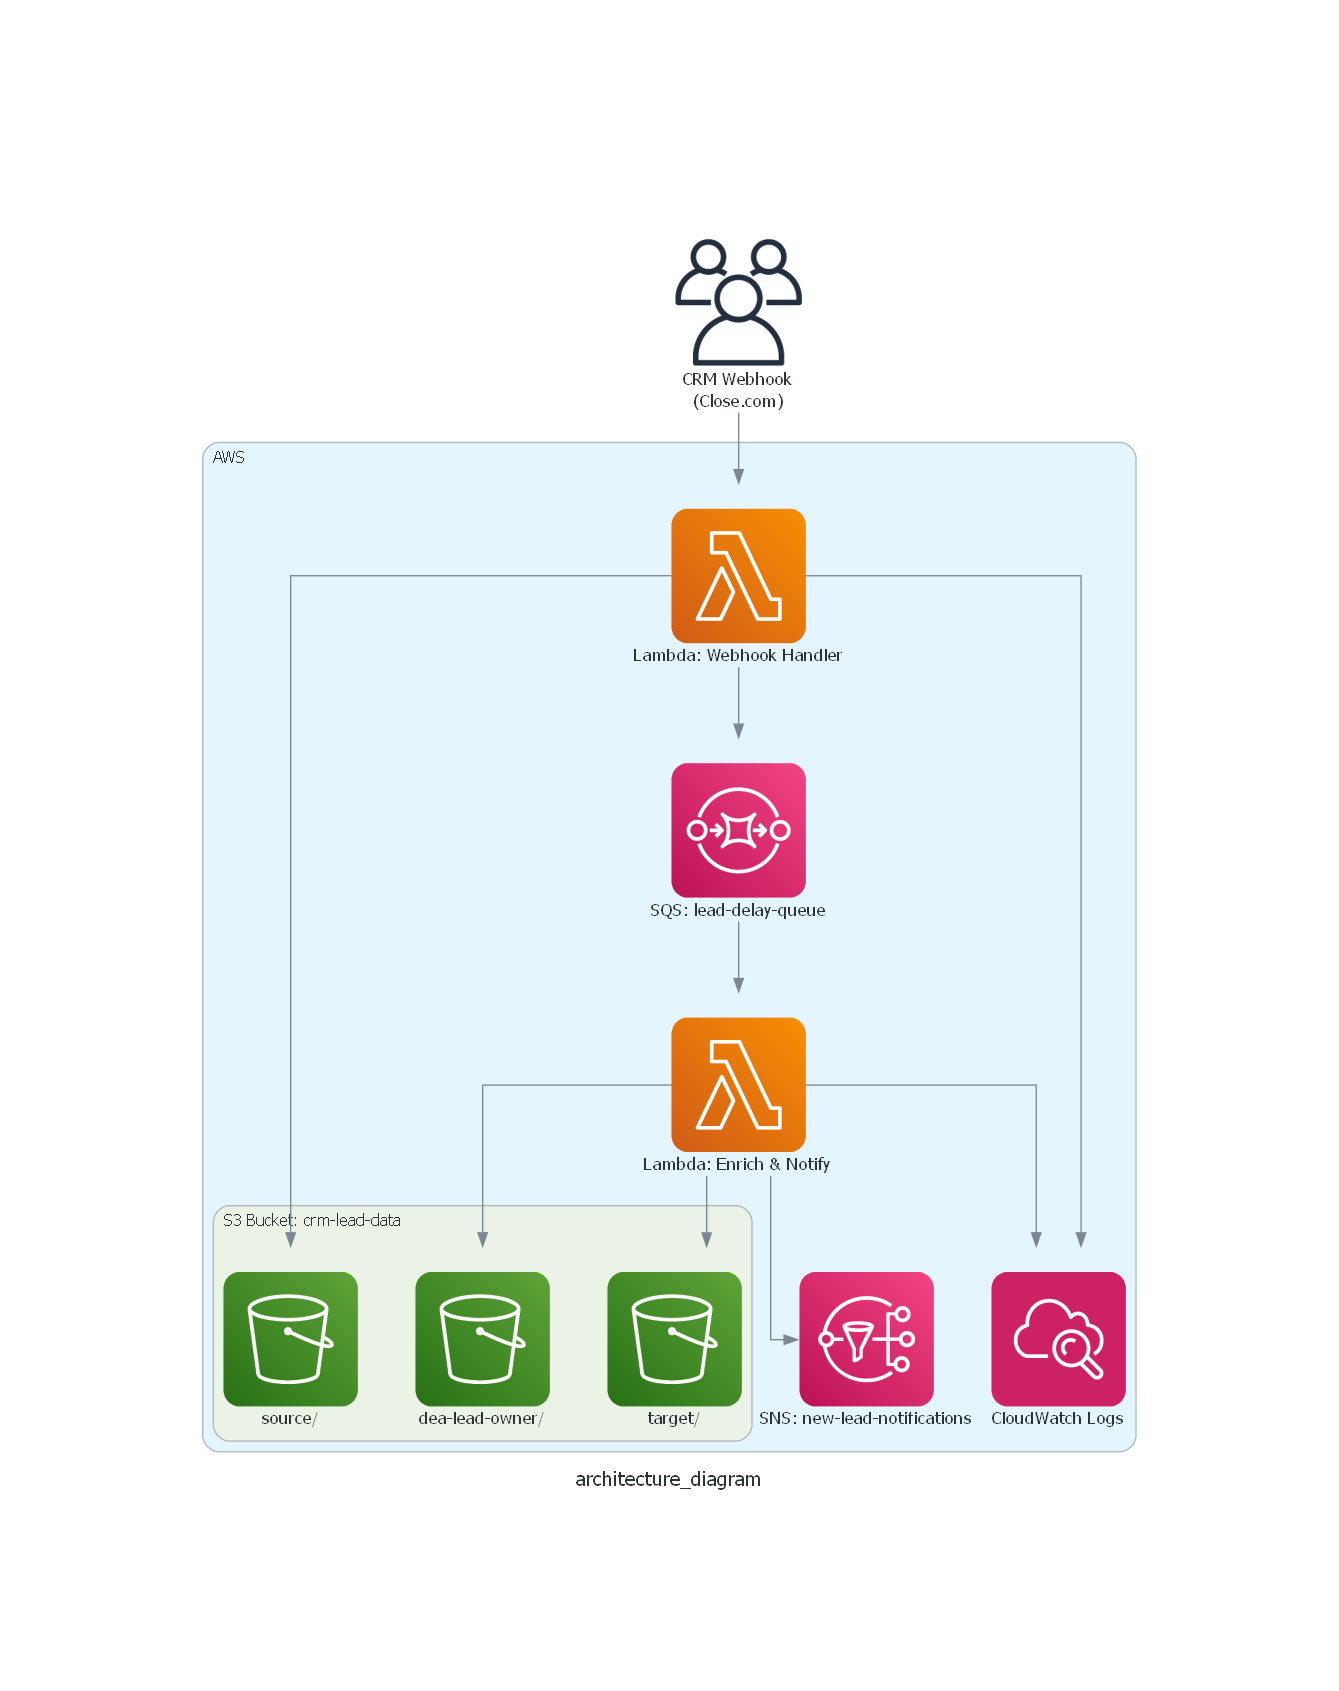
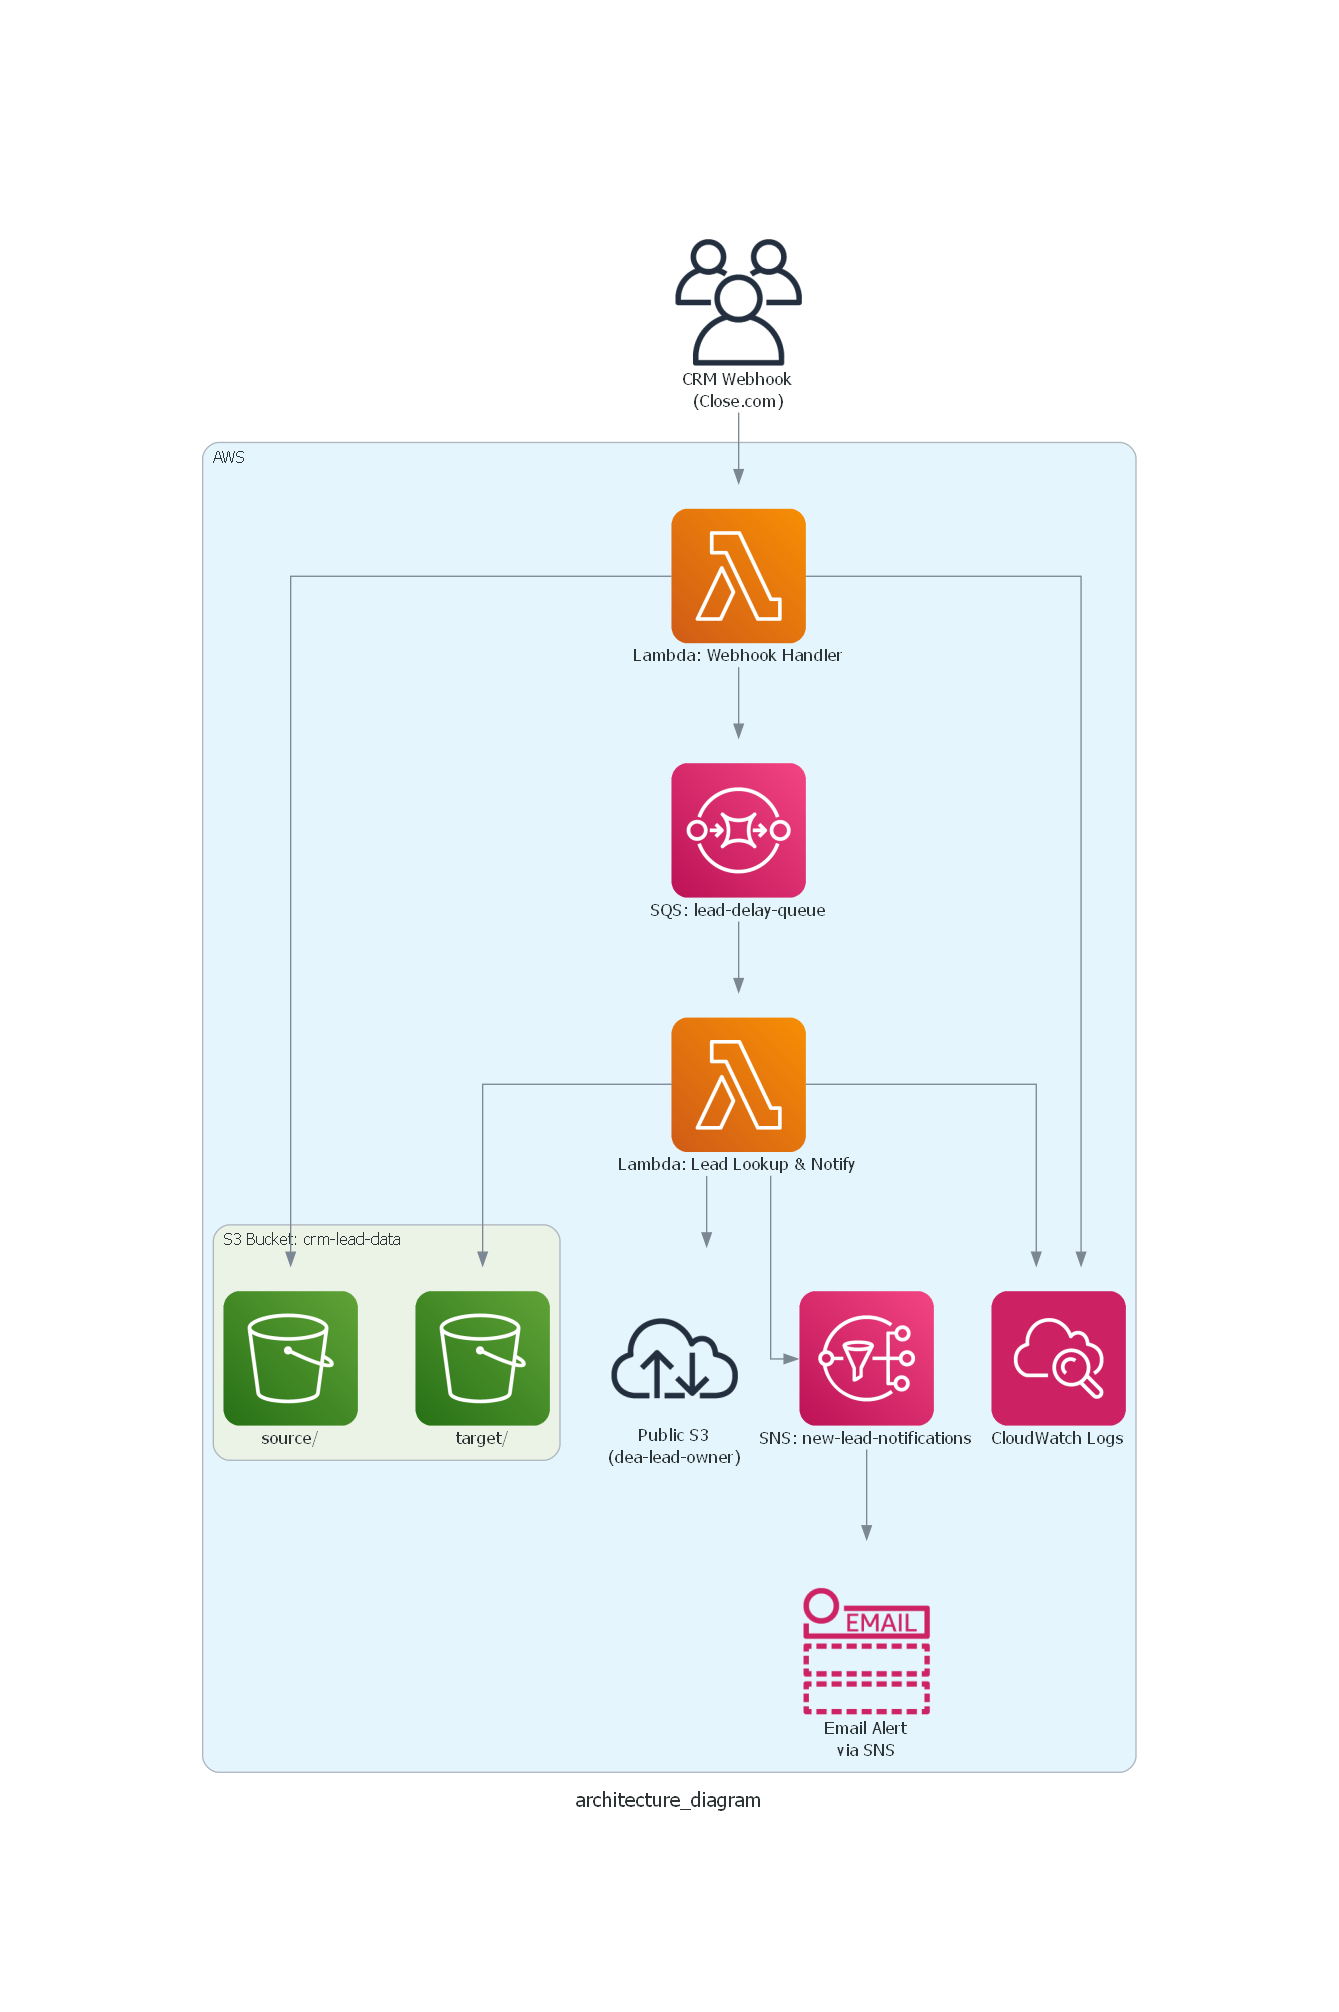
changed diagram

Changed region(s): [[0.1531, 0.123, 0.8574, 0.9225]]

diff --git a/architecture_diagram.py b/architecture_diagram.py
@@ -1,11 +1,11 @@
 from diagrams import Diagram, Cluster
-from diagrams.aws.integration import Eventbridge
 from diagrams.aws.compute import Lambda
 from diagrams.aws.storage import S3
 from diagrams.aws.integration import SQS, SNS
 from diagrams.aws.management import Cloudwatch
 from diagrams.onprem.client import Users
-
+from diagrams.onprem.network import Internet
+from diagrams.aws.integration import SimpleNotificationServiceSnsEmailNotification as Email
 
 with Diagram("architecture_diagram", show=False, direction="TB"):
     crm = Users("CRM Webhook\n(Close.com)")
@@ -13,21 +13,29 @@ with Diagram("architecture_diagram", show=False, direction="TB"):
     with Cluster("AWS"):
         with Cluster("S3 Bucket: crm-lead-data"):
             s3_source = S3("source/")
-            s3_lookup = S3("dea-lead-owner/")
             s3_target = S3("target/")
 
         webhook_lambda = Lambda("Lambda: Webhook Handler")
-        enrichment_lambda = Lambda("Lambda: Enrich & Notify")
+        enrichment_lambda = Lambda("Lambda: Lead Lookup & Notify")
         delay_queue = SQS("SQS: lead-delay-queue")
         sns_topic = SNS("SNS: new-lead-notifications")
         logs = Cloudwatch("CloudWatch Logs")
+        public_s3 = Internet("Public S3\n(dea-lead-owner)")
+        email = Email("Email Alert\nvia SNS")
 
+    # Flow
     crm >> webhook_lambda
     webhook_lambda >> s3_source
     webhook_lambda >> delay_queue
     delay_queue >> enrichment_lambda
-    enrichment_lambda >> s3_lookup
+    enrichment_lambda >> public_s3
     enrichment_lambda >> s3_target
+
+    # Notifications
     enrichment_lambda >> sns_topic
+    sns_topic >> email
+
+
+    # Logging
     webhook_lambda >> logs
     enrichment_lambda >> logs
